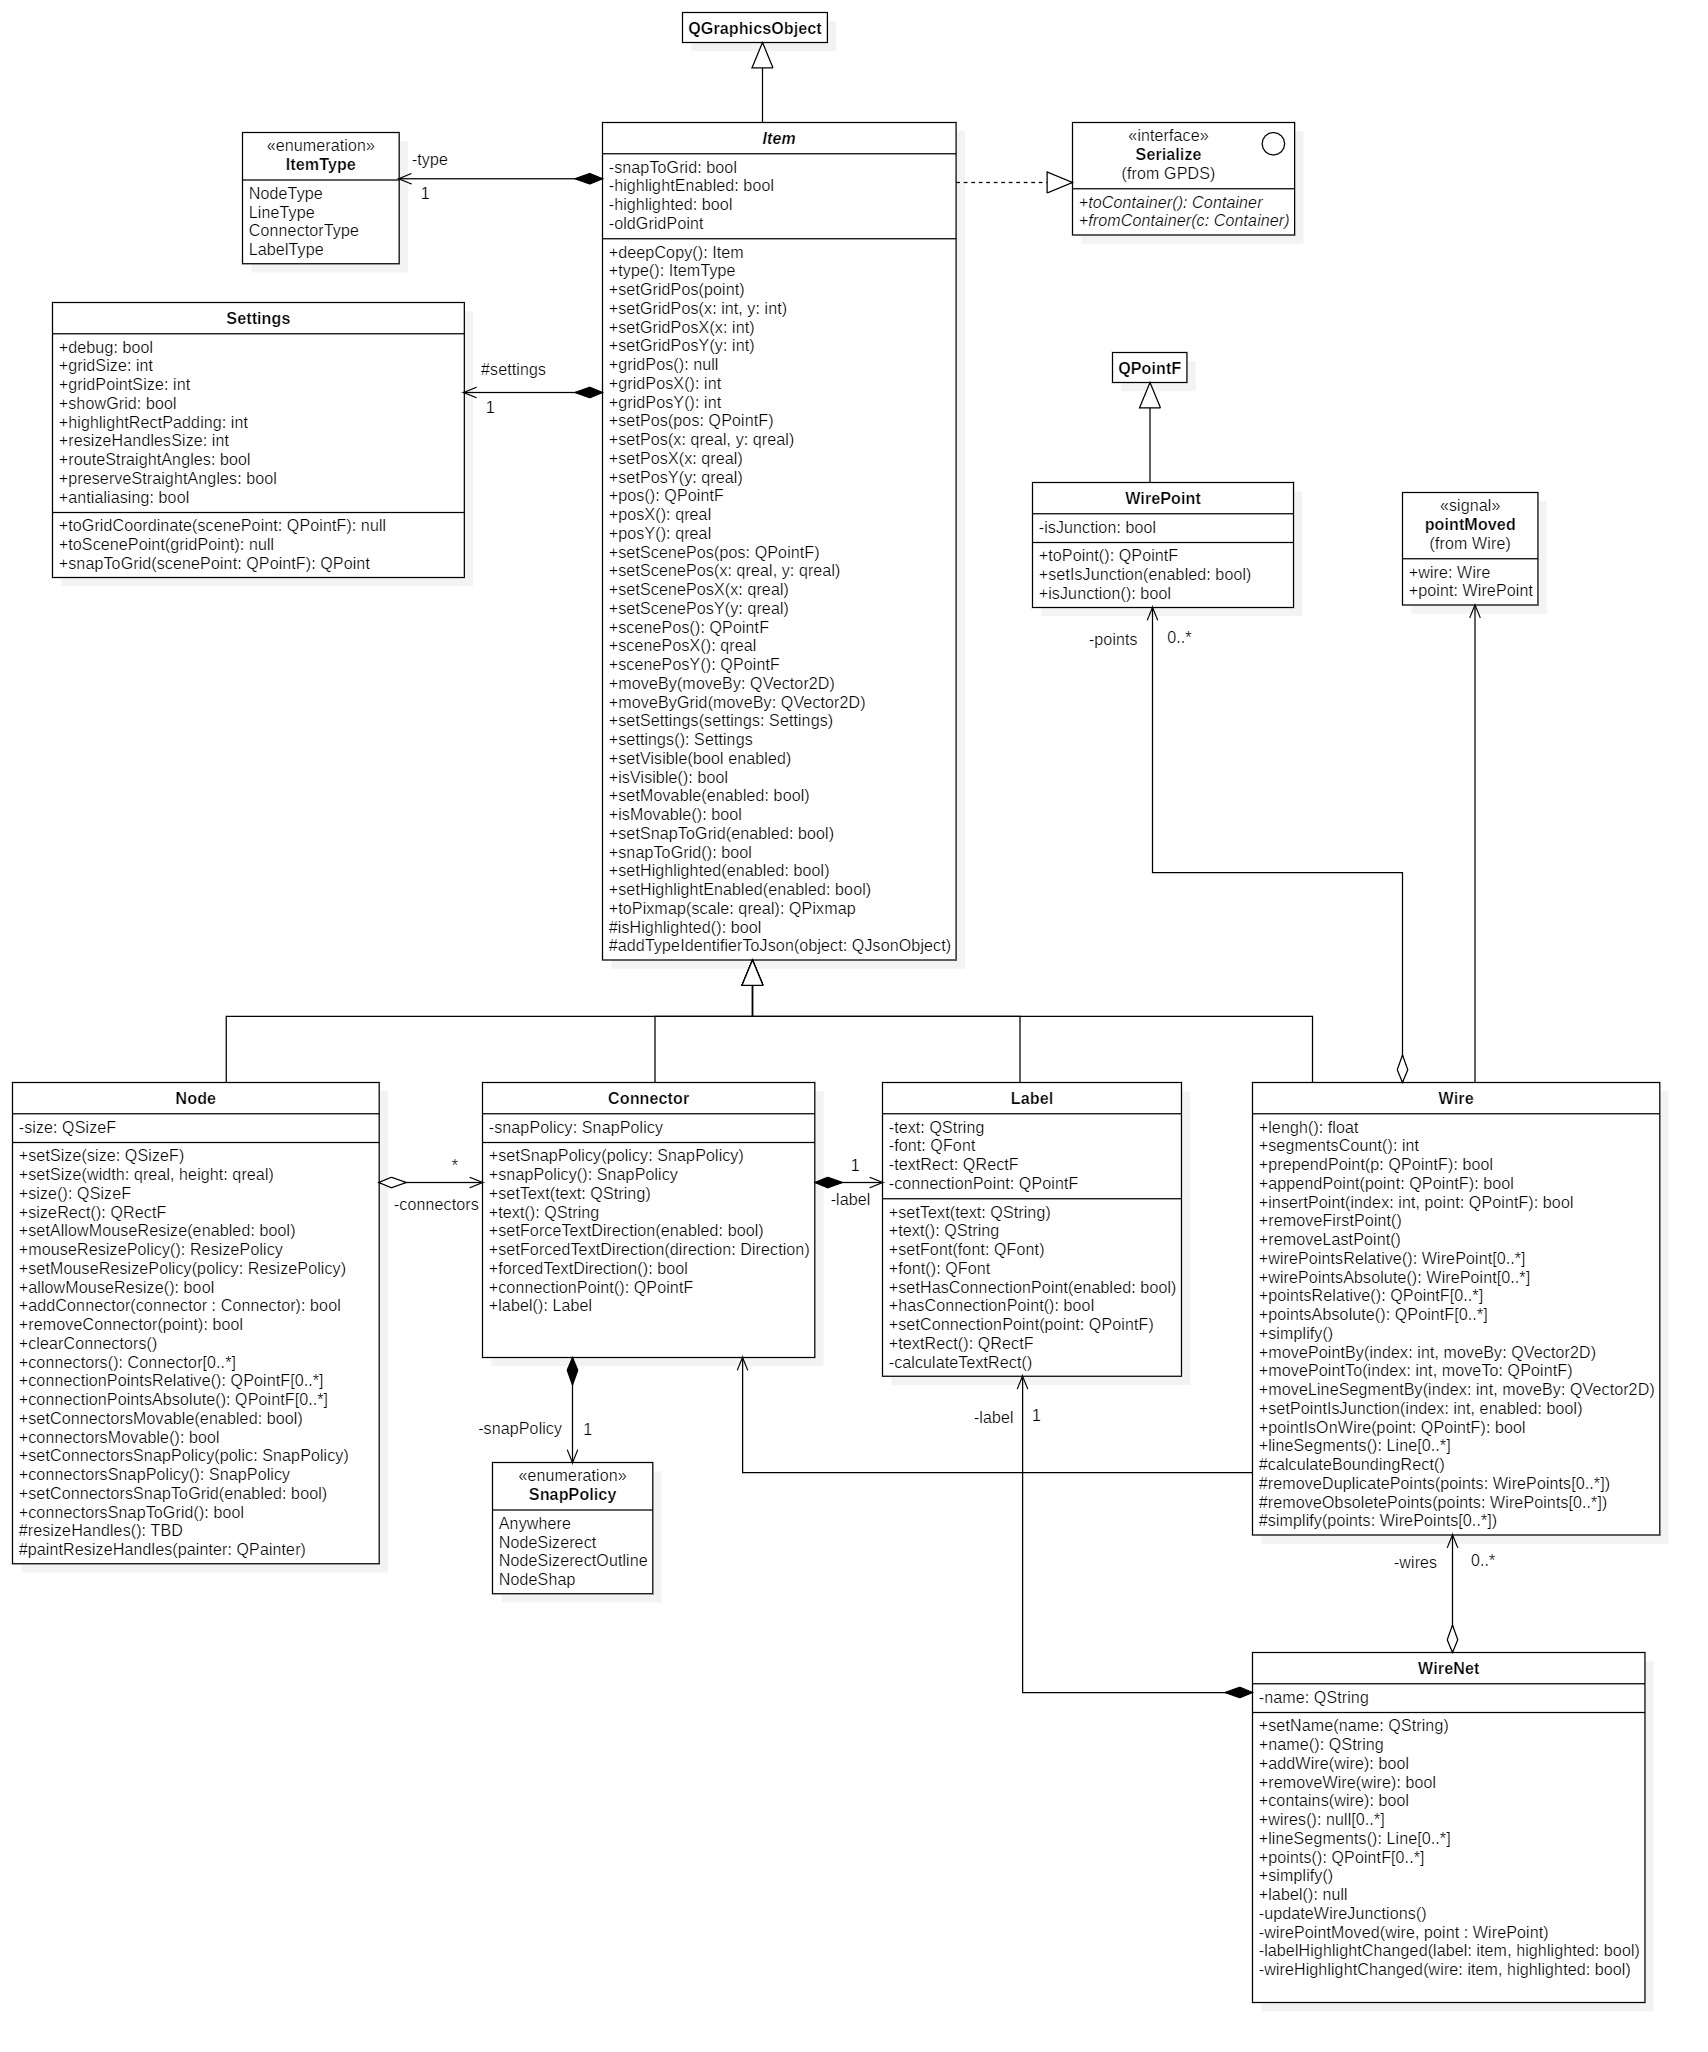
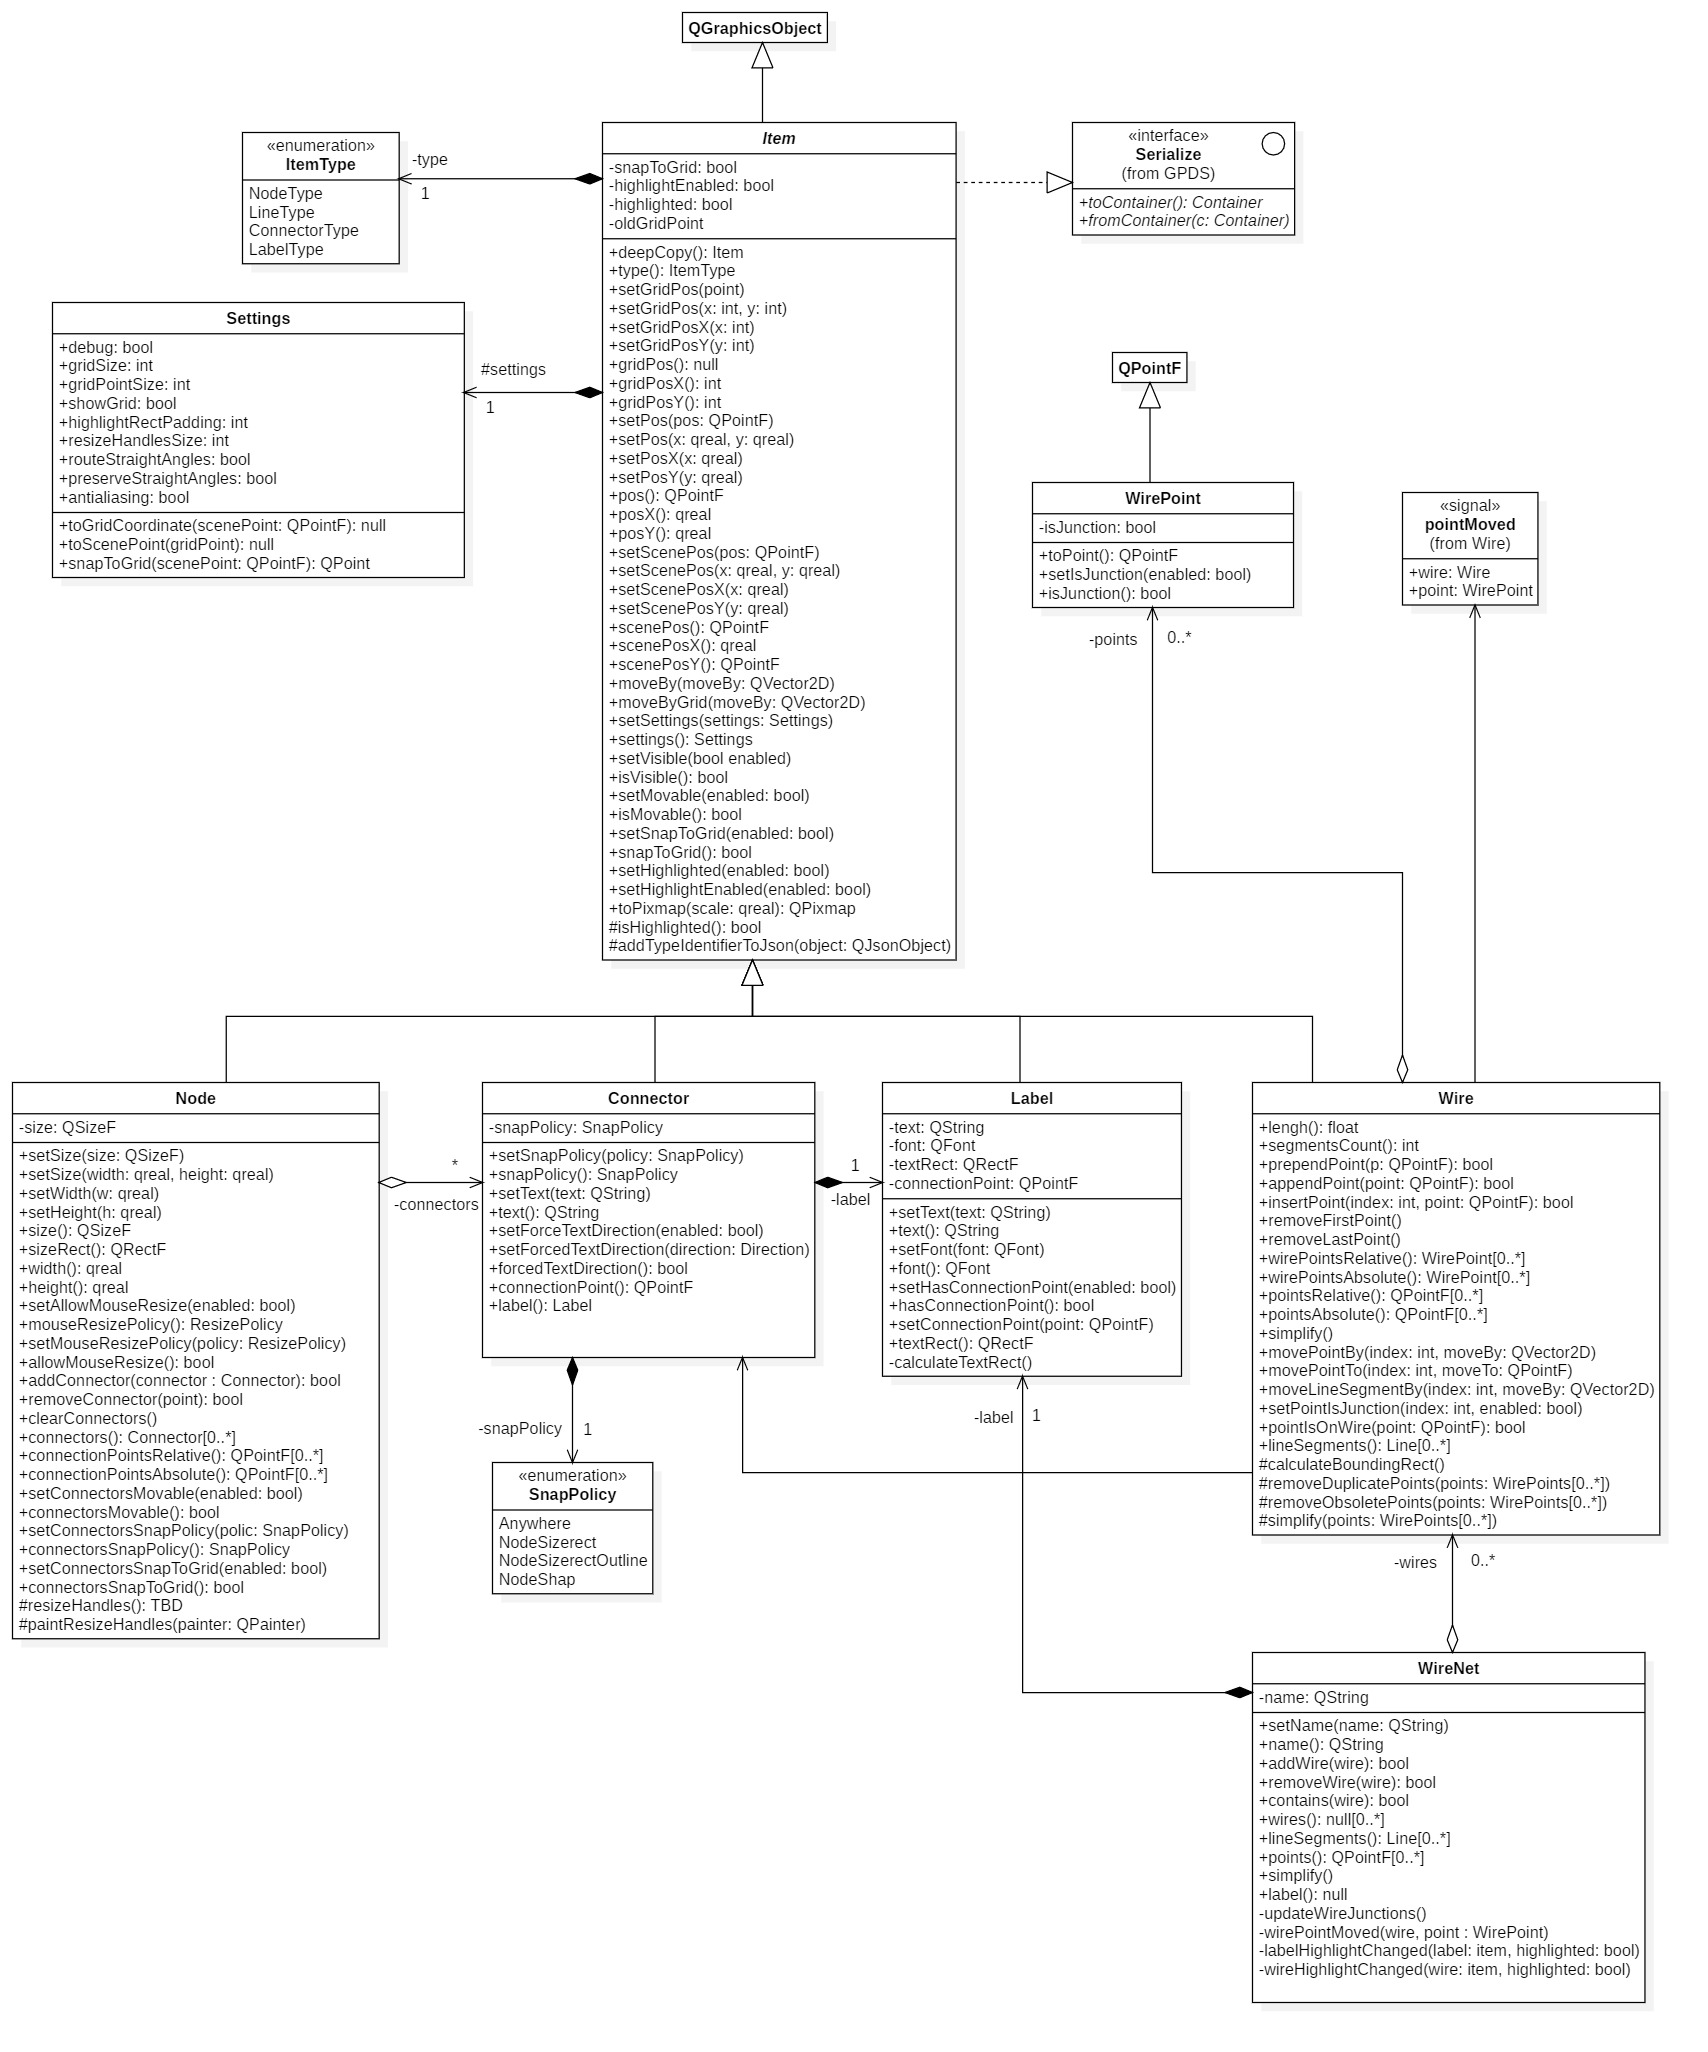
Add Node::setWidth(), Node::setHeight(), Node::width() and Node::height()

Changed region(s): [[0.0, 0.5614, 0.1862, 0.8109]]

diff --git a/lib/items/node.cpp b/lib/items/node.cpp
@@ -151,6 +151,16 @@ void Node::setSize(qreal width, qreal height)
     return setSize(QSizeF(width, height));
 }
 
+void Node::setWidth(qreal width)
+{
+    setSize( width, size().height() );
+}
+
+void Node::setHeight(qreal height)
+{
+    setSize( size().width(), height );
+}
+
 QSizeF Node::size() const
 {
     return _size;
@@ -159,6 +169,16 @@ QSizeF Node::size() const
 QRectF Node::sizeRect() const
 {
     return QRectF(0, 0, _size.width(), _size.height());
+}
+
+qreal Node::width() const
+{
+    return _size.width();
+}
+
+qreal Node::height() const
+{
+    return _size.height();
 }
 
 void Node::setAllowMouseResize(bool enabled)

diff --git a/lib/items/node.h b/lib/items/node.h
@@ -39,8 +39,12 @@ namespace QSchematic {
         Mode mode() const;
         void setSize(const QSizeF& size);
         void setSize(qreal width, qreal height);
+        void setWidth(qreal width);
+        void setHeight(qreal height);
         QSizeF size() const;
         QRectF sizeRect() const;
+        qreal width() const;
+        qreal height() const;
         void setAllowMouseResize(bool enabled);
         void setAllowMouseRotate(bool enabled);
         bool allowMouseResize() const;
